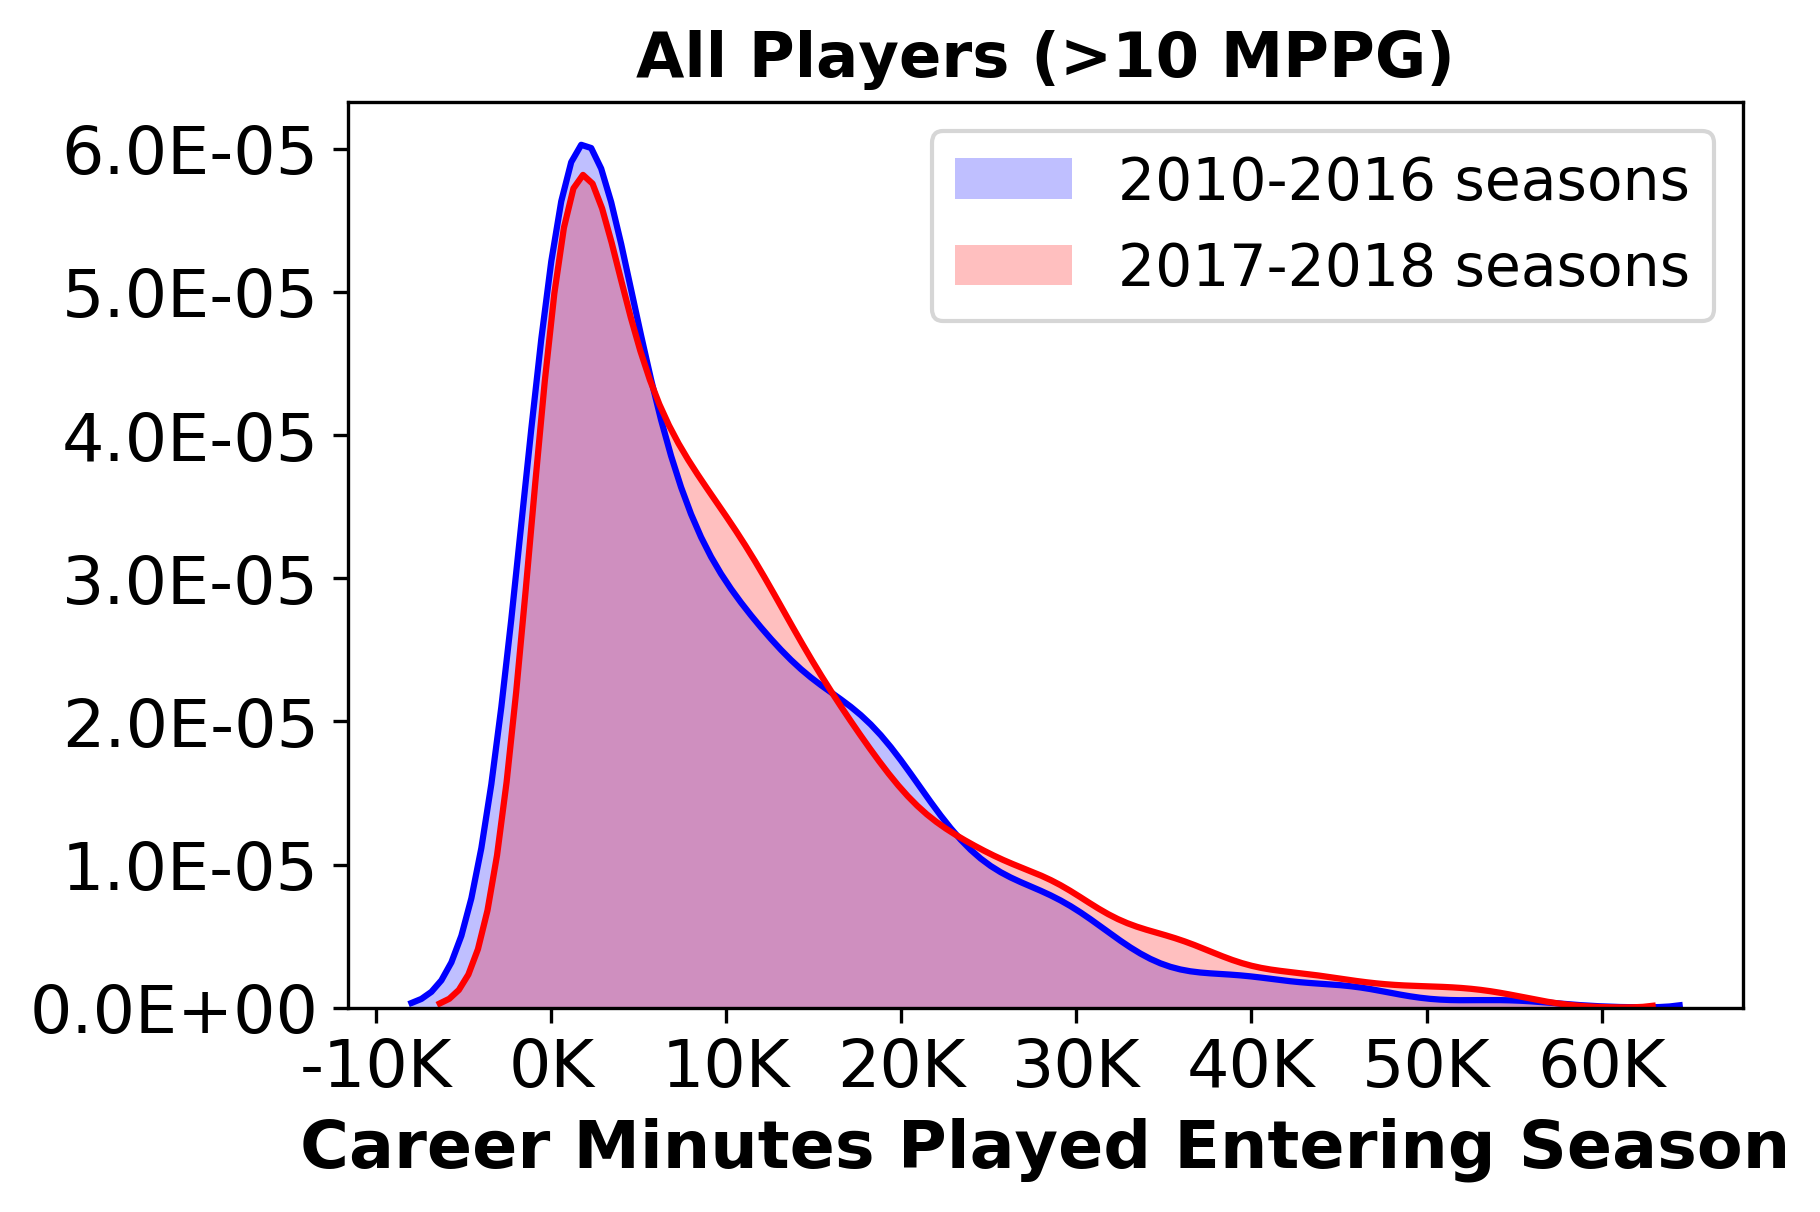
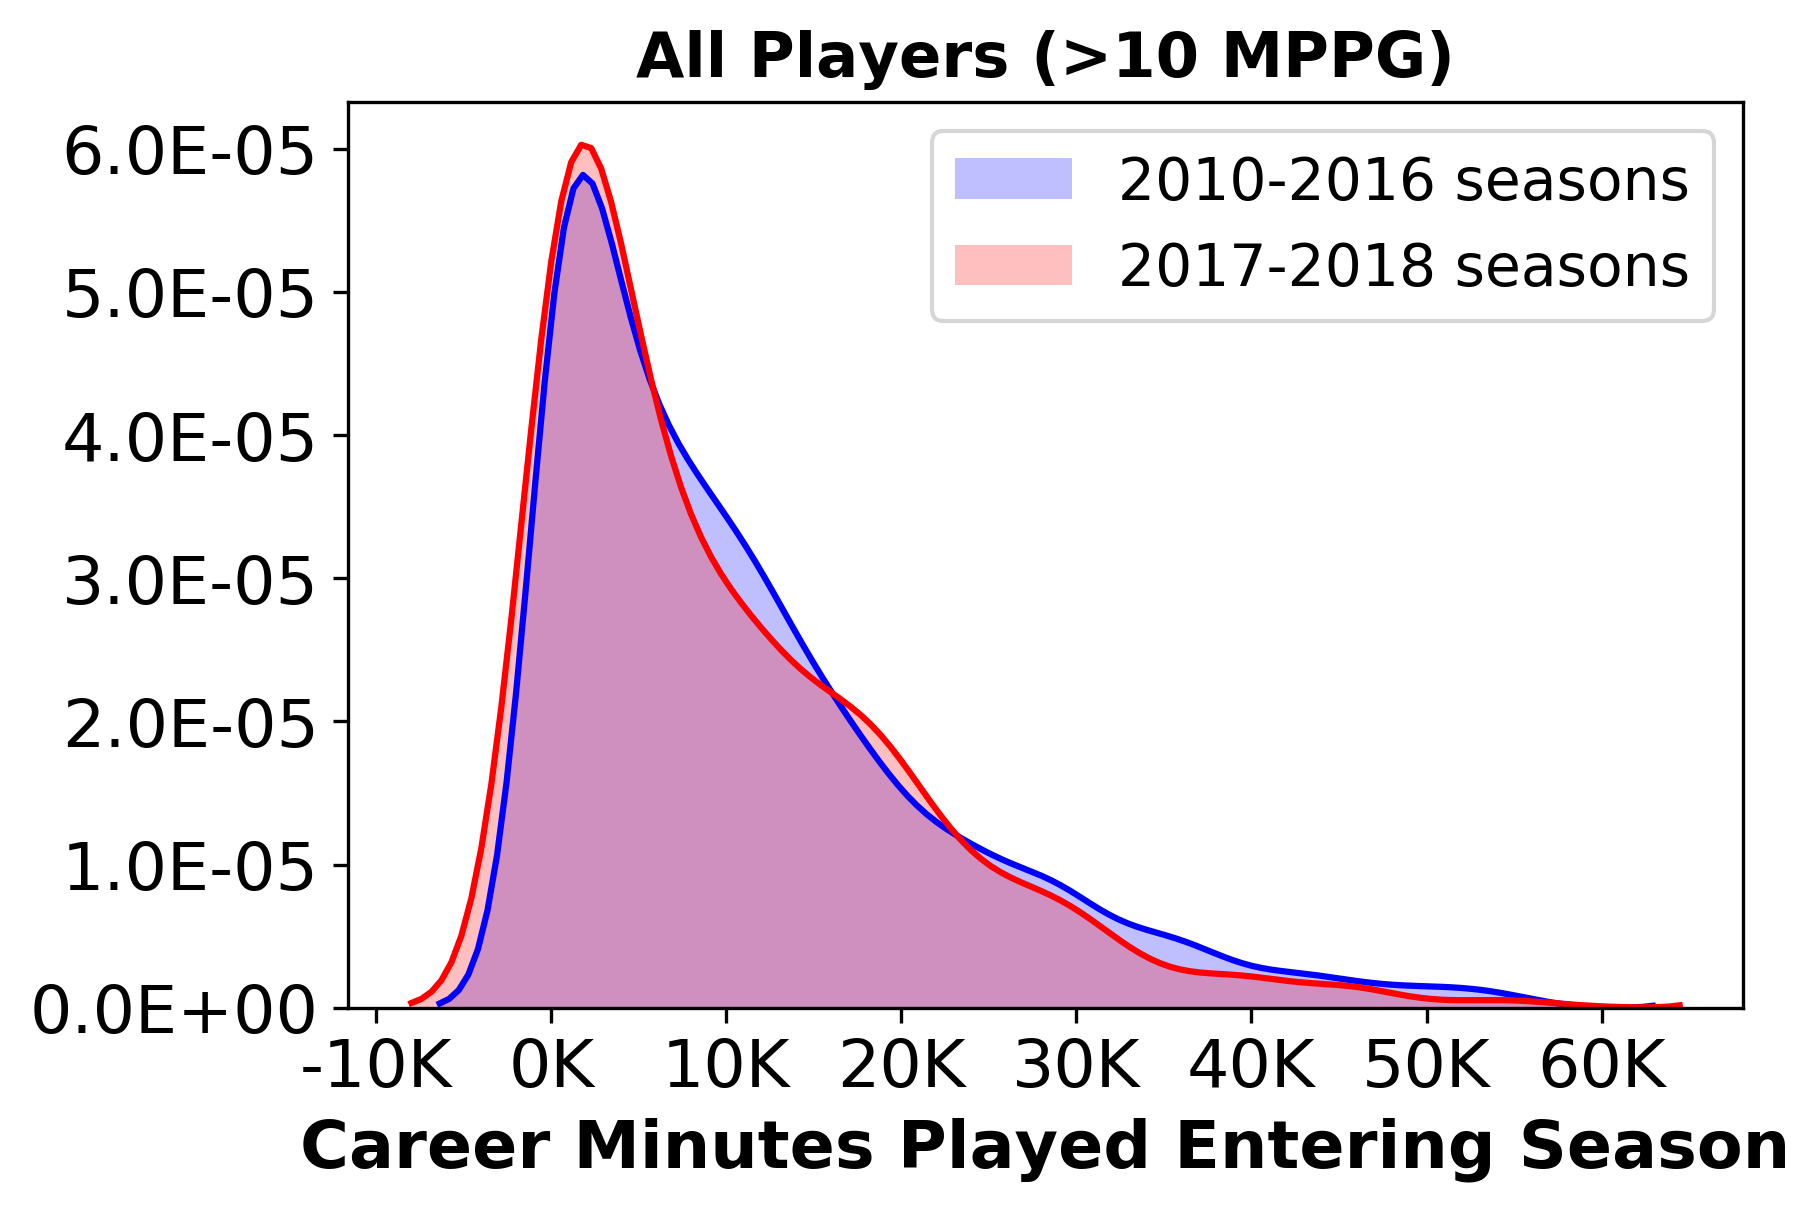
corrected dist plots
error in dataframe selection/assignment

diff --git a/src/d04_visualization/plot_distplot_better_multi_V2.py b/src/d04_visualization/plot_distplot_better_multi_V2.py
@@ -59,13 +59,13 @@ player_stats_df = player_stats_df[player_stats_df['MPPG'] > 10.0]
 player_stats_df = player_stats_df[player_stats_df['Year']> 2009]
 
 #player stats for 2017 and 2018 NBA seasons
-player_stats_recent_df = player_stats_df[~player_stats_df['Year'].isin([2017,2018])]
+player_stats_recent_df = player_stats_df[player_stats_df['Year'].isin([2017,2018])]
 
 #age and minutes played for all players with >10 MPPG, 2017-2018 NBA seasons
 player_stats_recent_df = player_stats_recent_df[['Age','TMP_prior_seasons']]
 
 #player stats for 2010 to 2016 NBA seasons
-player_stats_older_df = player_stats_df[player_stats_df['Year'].isin([2017,2018])]
+player_stats_older_df = player_stats_df[~player_stats_df['Year'].isin([2017,2018])]
 
 #age and minutes played for all players with >10 MPPG, 2010-2016 NBA seasons
 player_stats_older_df = player_stats_older_df[['Age','TMP_prior_seasons']]
